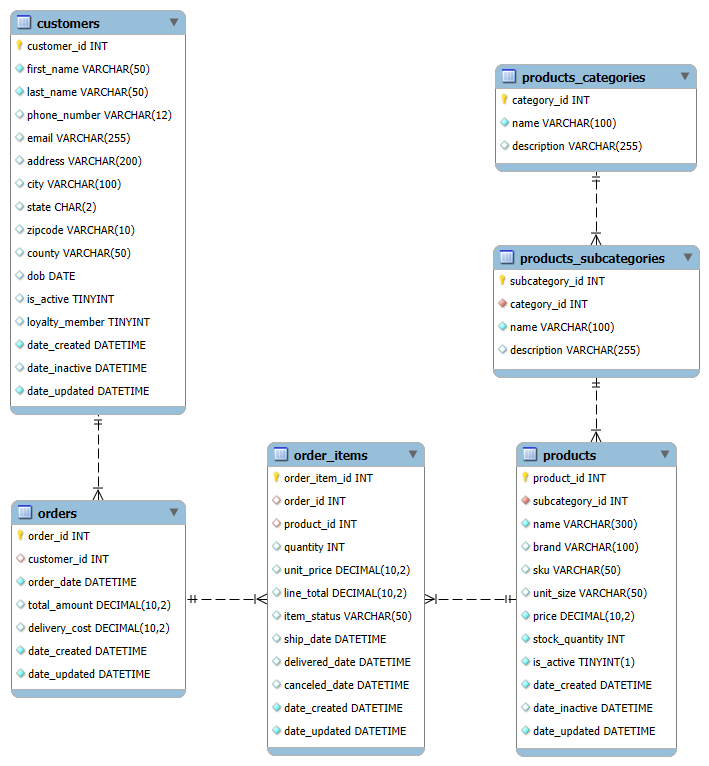
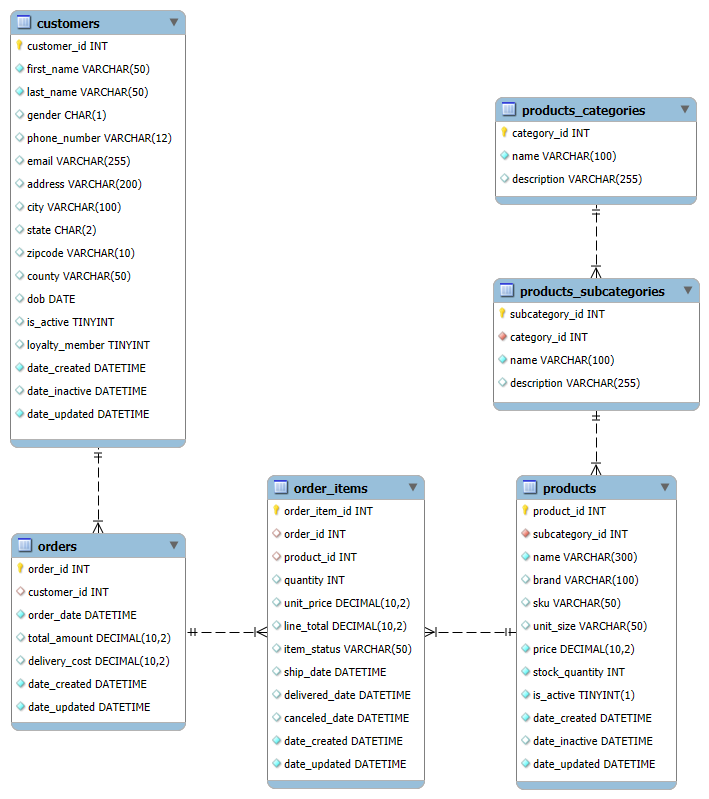
Data clean-up/examination updates

diff --git a/README.md b/README.md
@@ -119,6 +119,37 @@ LIMIT 5;
 
 </div>
 
+`tmart.customer.gender` - add gender to the customer profile
+
+<details>
+<summary>Expand to view details.</summary>
+
+```sql
+ALTER TABLE tmart.customers ADD COLUMN gender CHAR(1) NULL AFTER last_name;
+
+SELECT DISTINCT first_name,
+                gender
+FROM customers;
+
+
+UPDATE customers
+SET gender = 'M'
+WHERE first_name IN ('Andrew', 'Charles', 'Christopher', 'Daniel',
+                     'David', 'James', 'Jason', 'John', 'Joseph',
+                     'Liam', 'Matthew', 'Michael', 'Randy',
+                     'Richard', 'Robert', 'Thomas', 'William');
+
+
+UPDATE customers
+SET gender = 'F'
+WHERE first_name NOT IN ('Andrew', 'Charles', 'Christopher', 'Daniel',
+                         'David', 'James', 'Jason', 'John', 'Joseph',
+                         'Liam', 'Matthew', 'Michael', 'Randy',
+                         'Richard', 'Robert', 'Thomas', 'William');
+```
+
+</details>  
+
 ## :flashlight: Examine the Data (work in progress)
 
 ### Customers
@@ -162,6 +193,8 @@ ORDER BY active_customers DESC,
 | Wake | Holly Springs | 8 | 58 | 3 | 44 |
 | Harnett | Lillington | 8 | 56 | 1 | 80 |
 | Harnett | Dunn | 7 | 52 | 4 | 60 |
+
+![Age Gender](images/AgeGenderDistribution.jpg)
 
 ![Age Distribution](images/AgeDistributionbyCounty.jpg)
 </details>
@@ -230,7 +263,7 @@ ORDER BY 1,
 | Pet Care Products | Dogs | 215 | 215 | 10 |
 | Pet Care Products | Fish | 160 | 160 | 10 |
 
-![Active Products](images/ActiveProducts.jpg)
+![ProductCategories](images/ProductCategories.jpg)
 
 </details>
 
